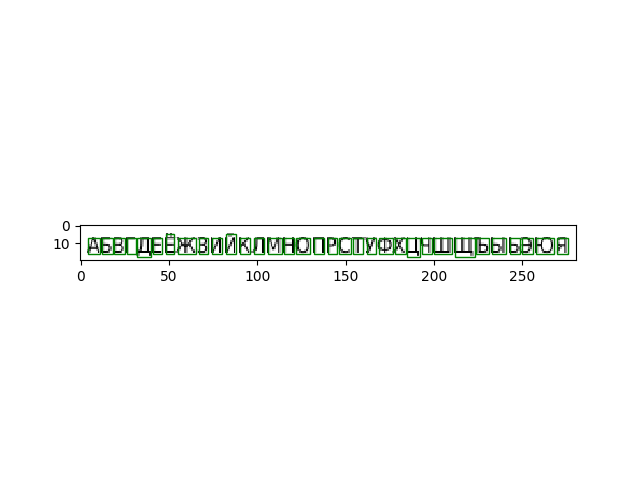
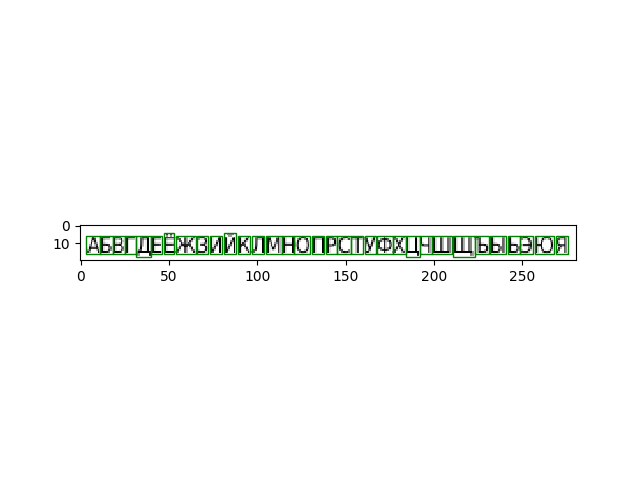
6

Changed region(s): [[0.125, 0.4688, 0.9062, 0.5312]]

diff --git a/6lab/main.py b/6lab/main.py
@@ -67,6 +67,9 @@ def move_point(p0:Point_type, p1:Point_type):
 def get_moment(img:Image, p:int, q:int, x_c:int, y_c:int, r:Rect=None):
     m = 0
     for (x, y), pix in pixel_gen(img, r=r):
+        if not r is None:
+            x -= r.start[0]
+            y -= r.start[1]
         m += (x-x_c)**p * (y-y_c)**q * pix
     return m 
 
@@ -87,6 +90,9 @@ def calc_center_of_gravity(img:Image, acc:pd.Series, r:Rect=None):
     res = [0,0]
     for idx, (p, q) in enumerate([(1, 0), (0, 1)]):
         for (x, y), pix in pixel_gen(img, r=r):
+            if not r is None:
+                x -= r.start[0]
+                y -= r.start[1]
             res[idx] += x**p * y**q * pix
     return tuple(i/acc[header_names[0][0]] for i in res)
 
@@ -120,7 +126,20 @@ header_names = (
         #("profiles",calc_profiles), #6
         )
 
+norm_attr = tuple(header_names[i][0] for i in [1,3,5])
+print(norm_attr)
 
+def distance(s0:pd.Series, s1:pd.Series):
+    d = 0
+    for attr in norm_attr:
+        if isinstance(s0[attr], Iterable):
+            tmp_d = 0
+            for i, j in zip(s0[attr], s1[attr]):
+                tmp_d += (i-j)**2
+            d += tmp_d
+        else:
+            d += (s0[attr]-s1[attr])**2
+    return 1-np.sqrt(d)
 
 
 def main():
@@ -130,6 +149,15 @@ def main():
     threshould = [0.95, 0.6]
     space = 4
 
+    base_directory = "pics"
+    if not os.path.exists(base_directory):
+        os.makedirs(base_directory)
+
+    char_directory = f"{base_directory}/chars"
+    if not os.path.exists(char_directory):
+        os.makedirs(char_directory)
+
+
     base_h = 12
     base_fnt = ImageFont.truetype(f"/usr/share/fonts/truetype/{fonts[0]}", base_h)
     base_data = pd.DataFrame({cl_name:[] for cl_name, _ in header_names})
@@ -138,17 +166,27 @@ def main():
         img = Image.new('RGB', char_size, color = WHITE)
         d = ImageDraw.Draw(img)
         d.text((0,0), char, font=base_fnt, fill=BLACK)
+        
+        pixs = img.load()
+        top_y = 0
+        end_loop = False
+        for y in range(img.size[1]):
+            top_y = y
+            for x in range(img.size[0]):
+                if pixs[x, y][0] < WHITE[0]/2:
+                    end_loop = True
+                    break
+            if end_loop:
+                break
+
+        img = img.crop((0, top_y, img.size[0], img.size[1]))
+        img.save(f"{char_directory}/{idx}.png")
 
         row = pd.Series(name=char)
         for col, (col_name, func) in enumerate(header_names):
             row = row.append(pd.Series({col_name:func(img, row)}))
         row.name = char
         base_data = base_data.append(row)
-
-
-    base_directory = "pics"
-    if not os.path.exists(base_directory):
-        os.makedirs(base_directory)
 
     base_data.to_csv(f'{base_directory}/base_data_{base_h}.csv')
     print(base_data)
@@ -200,7 +238,7 @@ def main():
                     elif curr_x <= threshould[1] and prev_x > threshould[1]:
                         bottom_y = curr_y
                     prev_x = curr_x
-                res_r = Rect(start=(left_x, top_y,), end=(x, bottom_y,))
+                res_r = Rect(start=(left_x-1, top_y-1,), end=(x, bottom_y,))
                 rects.append(res_r)
                 rect = Rectangle(res_r.start, res_r.size[0], res_r.size[1], linewidth=1, edgecolor='green', facecolor='none')
                 ax.add_patch(rect)
@@ -211,16 +249,23 @@ def main():
 
         
         print('rects')
-        data = pd.DataFrame({cl_name:[] for cl_name, _ in header_names})
-        for idx, rect in enumerate(progress.bar(rects)):
-            row = pd.Series(name=idx)
+        data = pd.DataFrame({char_name:[] for char_name in base_data.index})
+        for idx_r, rect in enumerate(progress.bar(rects)):
+            tmp_data = pd.Series(name=idx)
             for col, (col_name, func) in enumerate(header_names):
-                row = row.append(pd.Series({col_name:func(img, row, r=rect)}))
-            row.name = idx
+                tmp_data = tmp_data.append(pd.Series({col_name:func(img, tmp_data, r=rect)}))
+
+            row = pd.Series()
+            for idx, base_row in base_data.iterrows():
+                row = row.append(pd.Series({idx:distance(base_row, tmp_data)}))
+            row.name = idx_r
             data = data.append(row)
 
         data.to_csv(f'{directory}/data_{h}.csv')
         print(data)
+
+
+
 
 
 
